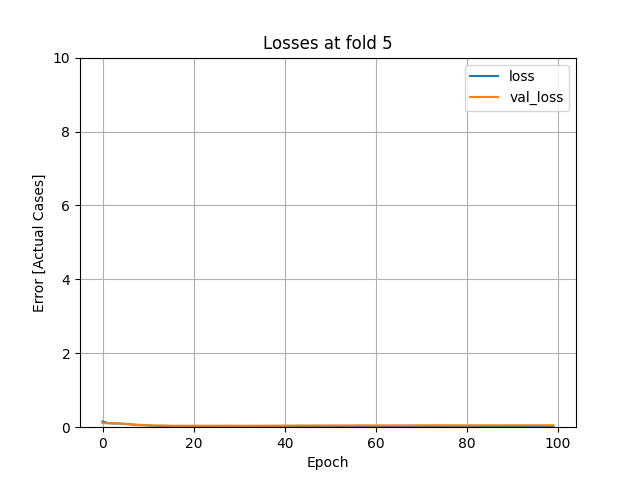
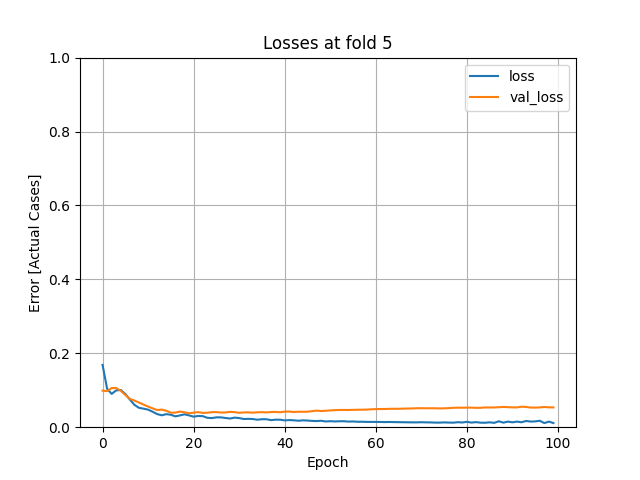
Adds average of mean absolute error

diff --git a/Neural_Networks/dnn.py b/Neural_Networks/dnn.py
@@ -37,7 +37,7 @@ def load_data(folder, filename):
 def plot_loss(history, fold):
     plt.plot(history.history['loss'], label='loss')
     plt.plot(history.history['val_loss'], label='val_loss')
-    plt.ylim([0, 10])
+    plt.ylim([0, 1])
     plt.xlabel('Epoch')
     plt.ylabel('Error [Actual Cases]')
     plt.title(f'Losses at fold {fold}')
@@ -207,6 +207,7 @@ def train_x_test_y(train='US States Data.csv', test='europe.csv', folds=5, debug
     # K-Fold initialization
     k_fold = KFold(n_splits=folds, shuffle=False)
     n_fold = 0
+    losses = []
     r_squares = []
     for train_index, test_index in k_fold.split(train_features):
         n_fold += 1
@@ -237,11 +238,14 @@ def train_x_test_y(train='US States Data.csv', test='europe.csv', folds=5, debug
         loss = model.evaluate(X_test, y_test, verbose=0)
         print(f'DNN Validation Loss: {loss}')
 
+        # Append loss of fold for final statistic
+        losses.append(loss)
+
         # Get the RSquare
         rsquare_result = predict_infections_rsquare(model, X_test, y_test)
         print(f'RSquare at fold {n_fold}: {rsquare_result}')
 
-        # Sum r-square for final statistic
+        # Append RSquare of fold for final statistic
         r_squares.append(rsquare_result)
 
         # Get predictions of model on test data
@@ -250,14 +254,21 @@ def train_x_test_y(train='US States Data.csv', test='europe.csv', folds=5, debug
         # Plot model predictions against actual values
         plot_predictions(test_predictions, y_test, train, test, n_fold)
 
-    # Print average RSquare
+    # Print average RSquare and loss
+    print(losses)
+    print(f'Mean Absolute Error: {sum(losses) / folds}')
     print(f'Average RSquare: {sum(r_squares) / folds}')
 
-    # Save RSquare score for each fold and store in k-folds results folder
-    with open('k_fold_results/rsquares.txt', "w") as each_fold:
+    # Save RSquare score and loss for each fold and store in k-folds results folder
+    with open('k_fold_results/rsquares.txt', "w") as each_rsquare:
         temp = [str(x) for x in r_squares]
         for index, result in enumerate(temp):
-            each_fold.write(str(index) + ': ' + result + '\n')
+            each_rsquare.write(str(index) + ': ' + result + '\n')
+
+    with open('k_fold_results/loses.txt', "w") as each_loss:
+        temp = [str(x) for x in losses]
+        for index, result in enumerate(temp):
+            each_loss.write(str(index) + ': ' + result + '\n')
 
 
 if __name__ == '__main__':
